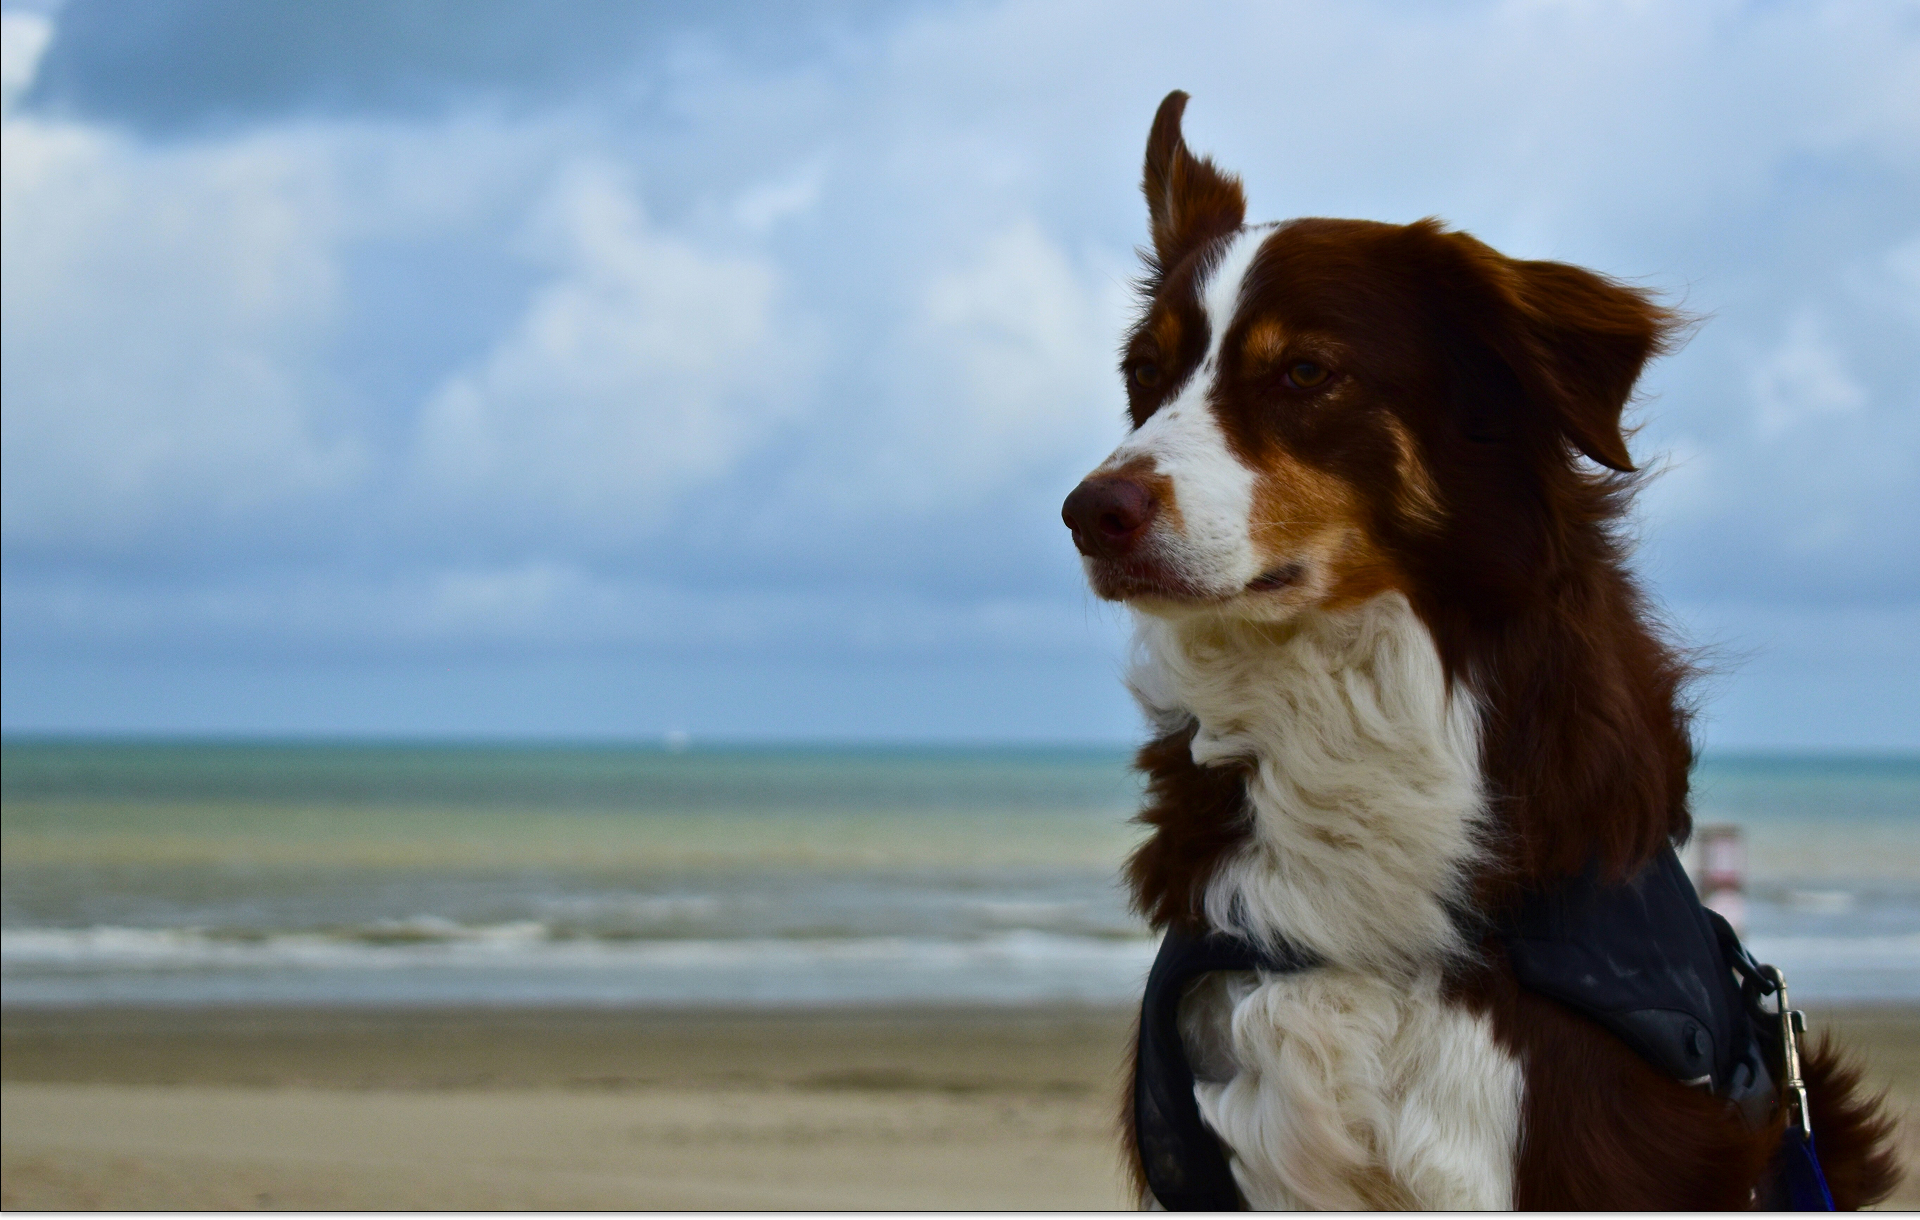
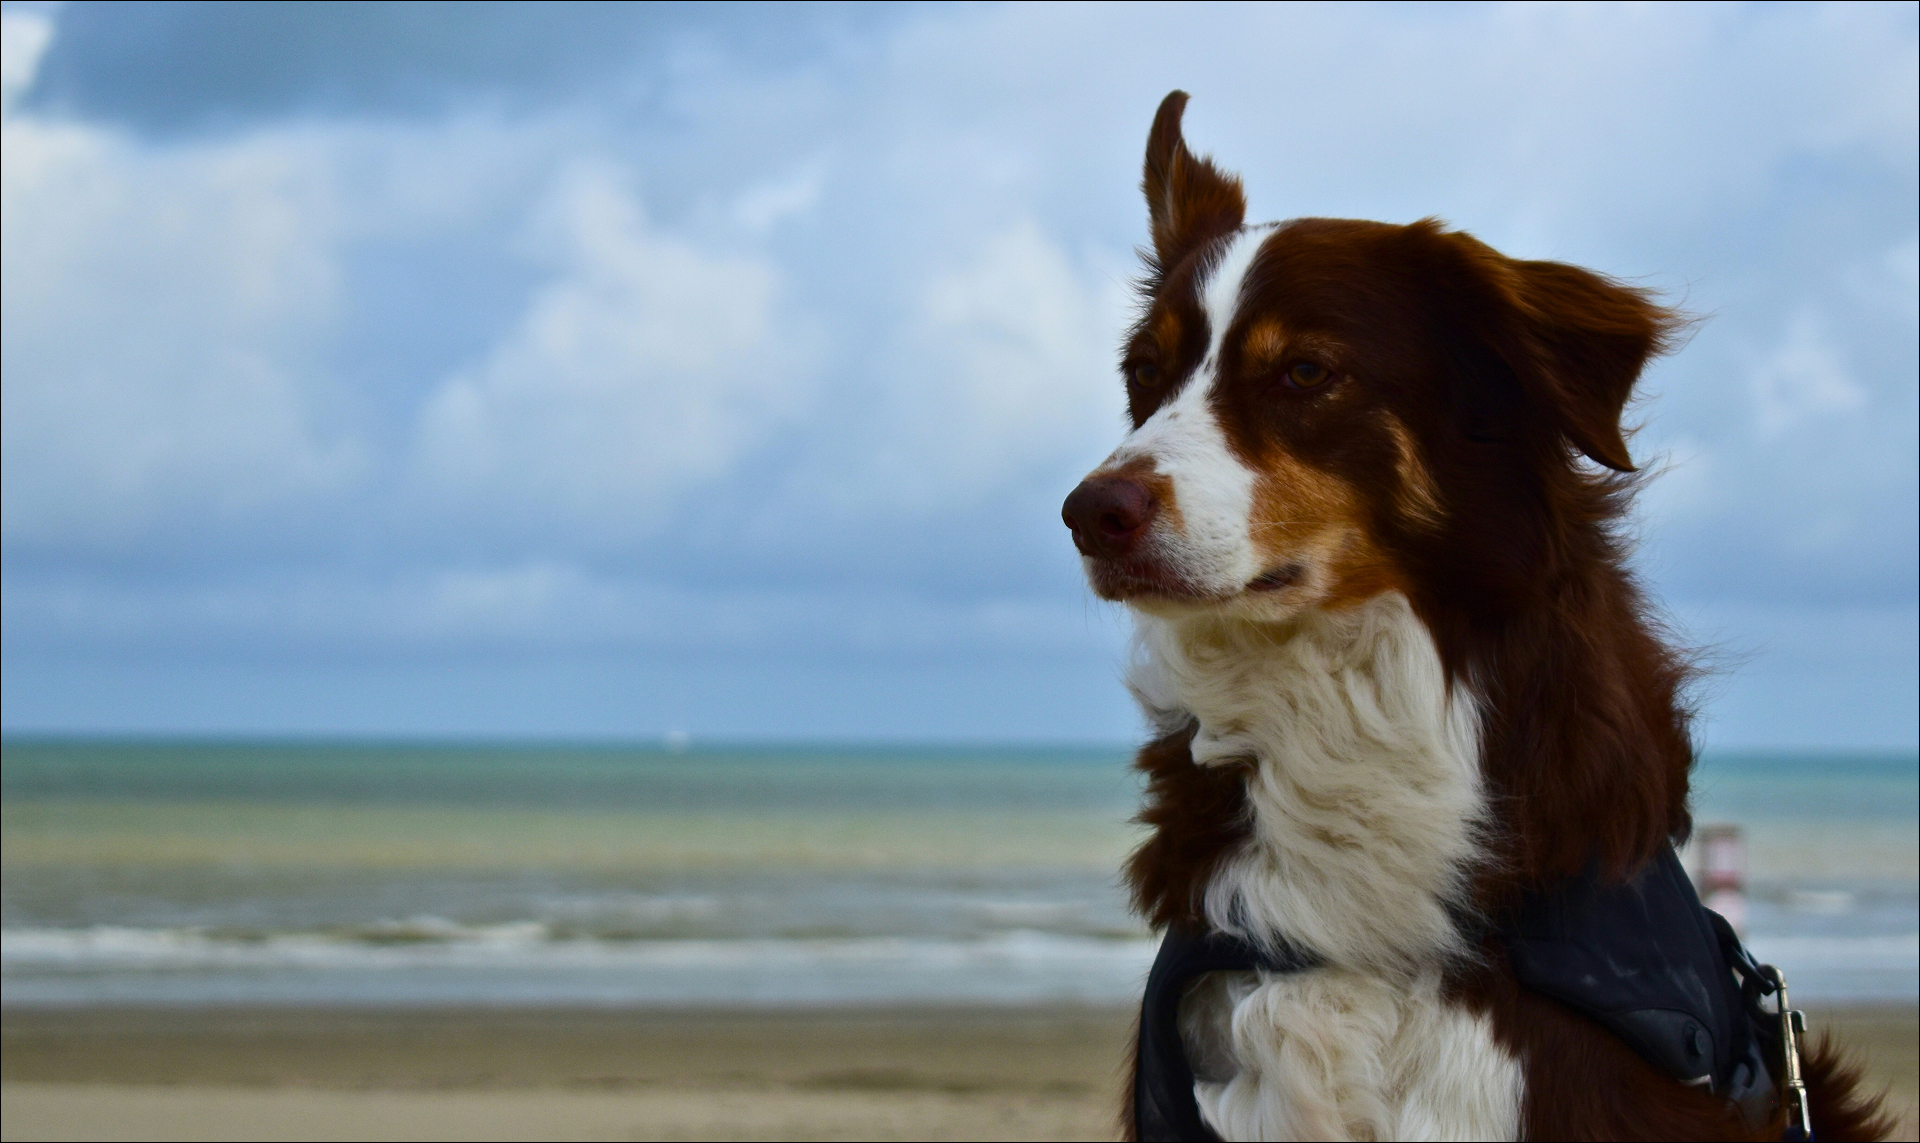
completed writing html structure for the landing page as final basis for styling and scripting + added and modified assets folder files

diff --git a/index.html b/index.html
@@ -5,22 +5,198 @@
 <head>
       <meta charset="UTF-8">
       <meta name="viewport" content="width=device-width, initial-scale=1.0">
-      <title>FurPaws: Local Pet Registry</title>
+      <title>FurPaws: Local Animal Registry</title>
       <link rel="stylesheet" href="styles/style.css">
 </head>
 
 <body>
       <header id="header">
+            <nav class="header-navbar">
+                  <a href="#header">
+                        <img src="assets/svg/about us paw print 1.svg">
+                  </a>
+                  
+                  <ul class="header-navbar-links">
+                        <li><a href="#about-us">ABOUT US</a></li>
+                        <li><a href="#faq">FAQ</a></li>
+                        <li><a href="#footer">CONTACT US</a></li>
+                  </ul>
+            </nav>
+
+            <section class="hero">
+                  <div class="hero-content">
+                        <h1 class="hero-title">RESPONSIBLE PET OWNERSHIP<br>BEGINS HERE</h1>
+
+                        <div class="hero-buttons">
+                              <a href="pages/user authorization/1 - sign in - user account.html" class="hero-signin-button">Sign In</a>
+                              <a href="pages/user authorization/3 - sign up.html" class="hero-signup-button">Sign Up</a>
+                        </div>
+
+                        <img class = "hero-banner-background" src="/assets/img/hero banner background.jpg">
+                  </div>
+            </section>
       </header>
       
-      <section id="about us">
+      <section id="about-us">
+            <img class="about-us-paw-print" src="assets/svg/about us paw print 1.svg">
+            <img class="about-us-paw-print" src="assets/svg/about us paw print 2.svg">
+            <img class="about-us-paw-print" src="assets/svg/about us paw print 1.svg">
+            <img class="about-us-paw-print" src="assets/svg/about us paw print 2.svg">
+
+            <h2 class="about-us-title">ABOUT US</h2>
+            
+            <div class="about-us-content">
+                  <div class="about-us-who-we-are">
+                        <h3>WHO WE ARE</h3>
+                        <p>We are a community-driven initiative under the local municipality of Trece Martires City dedicated to promoting responsible pet ownership and ensuring the safety and well-being of animals in our city.</p>
+                  </div>
+
+                  <div class="about-us-how-we-work">
+                        <h3>HOW WE WORK</h3>
+                        <p>Our organization serves as an official animal registry, where pets are registered to help provide access to essential services, such as health monitoring, identification, and protection. By maintaining an updated database of pets, we support faster response during emergencies, prevent loss or theft, and contribute to public safety.</p>
+                  </div>
+
+                  <div class="about-us-center-photo">
+                        <img src="assets/img/about us - center.jpg">
+                  </div>
+
+                  <div class="about-us-left-photo">
+                        <img src="assets/img/about us - left.jpg">
+                  </div>
+
+                  <div class="about-us-right-photo">
+                        <img src="assets/img/about us - right.jpg">
+                  </div>
+            </div>
       </section>
 
       <section id="faq">
+            <h2 class="faq-title">FREQUENTLY ASKED QUESTIONS</h2>
+
+            <img class="faq-paw-print" src="assets/svg/faq paw print 1.svg">
+            <img class="faq-paw-print" src="assets/svg/faq paw print 1.svg">
+            <img class="faq-paw-print" src="assets/svg/faq paw print 1.svg">
+            <img class="faq-paw-print" src="assets/svg/faq paw print 2.svg">
+            <img class="faq-paw-print" src="assets/svg/faq paw print 2.svg">
+            <img class="faq-paw-print" src="assets/svg/faq paw print 2.svg">
+            <img class="faq-paw-print" src="assets/svg/faq paw print 1.svg">
+            <img class="faq-paw-print" src="assets/svg/faq paw print 1.svg">
+            <img class="faq-paw-print" src="assets/svg/faq paw print 1.svg">
+            <img class="faq-paw-print" src="assets/svg/faq paw print 2.svg">
+            <img class="faq-paw-print" src="assets/svg/faq paw print 2.svg">
+            <img class="faq-paw-print" src="assets/svg/faq paw print 2.svg">
+
+            <div class="faq-grids">
+                  <div class="faq-grid1">
+                        <div class="faq-grid1-content">
+                              <h4>What are the benefits of registering my pet?</h4>
+                              <p>Registering your pet offers more advantages than you may think.<p>
+                              <ul>
+                                    <li>Easy Identification and Recovery</li>
+                                    <li>Proof of Ownership</li>
+                                    <li>Access to Health Monitoring</li>
+                                    <li>Increased Safety and Security</li>
+                                    <li>Faster Emergency Response</li>
+                                    <li>Supports Community Welfare</li>
+                              </ul>
+                        </div>
+                  </div>
+
+                  <div class="faq-grid2">
+                        <div class="faq-grid2-content">
+                              <h4>Why do I need to register my pet?</h4>
+                              <p>Registering your pet ensures their safety, supports their health, and helps build a more responsible and pet-friendly community.</p>
+                        </div>
+                  </div>
+
+                  <div class="faq-grid3">
+                        <div class="faq-grid3-content">
+                              <h4>What happens if I do not register my pet?</h4>
+                              <p>Failing to register your pet may lead to several challenges that can affect both you and your pets(s): <p>
+                              <ul>
+                                    <li>Difficulty In Finding Lost Pets</li>
+                                    <li>Lack of Proof of Ownership</li>
+                                    <li>Missed Health Monitoring</li>
+                                    <li>Slower Emergency Response</li>
+                                    <li>Non-Compliance With Local Policies</li>
+                              </ul>
+                        </div>
+                  </div>
+
+                  <div class="faq-grid4">
+                        <div class="faq-grid4-content">
+                              <h4>What information do I need to register my pet?</h4>
+                              <p>You will need basic details, such as owner and pet information.</p>
+                        </div>
+                  </div>
+
+                  <div class="faq-grid5">
+                        <div class="faq-grid5-content">
+                              <h4>Can I update any information I submit in the system?</h4>
+                              <p>Yes, you can update your user and pet(s)' information anytime under the "My Pets" and "Edit Profile" page in the User Dashboard.</p>
+                        </div>
+                  </div>
+
+                  <div class="faq-grid6">
+                        <div class="faq-grid6-content">
+                              <h4>How much would it be to register my pet?</h4>
+                              <p>Registration is completely free of charge!</p>
+                        </div>
+                  </div>
+            </div>
       </section>
 
       <footer id="footer">
+            <div class="footer-left">
+                  <a href="#header">
+                        <img src="assets/svg/about us paw print 1.svg">
+                  </a>
+                  
+                  <nav class="footer-navbar-links">
+                        <a href="#about-us">About Us</a>
+                        <a href="#faq">FAQ</a>
+                        <a href="#contact-us">Contact Us</a>
+                  </nav>
+
+                  <p class="footer-tagline">Helping owners, protecting pets, and building a stronger sense of community.</p>
+                  <p class="footer-tagline">Responsible pet ownership begins here.</p>
+
+                  <div class="social-media-icons">
+                        <img src="assets/svg/facebook icon.svg">
+                        <img src="assets/svg/instagram icon.svg">
+                        <img src="assets/svg/linkedin icon.svg">
+                  </div>
+            </div>
+
+            <div class="footer-right">
+                  <h3>Contact Us</h3>
+                  <div class="contact-form">
+                        <form method="POST">
+                              <div class="form-row">
+                                    <div class="form-field">
+                                          <label>NAME</label>
+                                          <input type="text"><br>
+                                    </div>
+
+                                    <div class="form-field">
+                                          <label>E-MAIL</label>
+                                          <input type="email"><br>
+                                    </div>
+                              </div>
+
+                              <label>MESSAGE</label>
+                              <input type="text"><br>
+                              <input type="submit">
+                        </form>
+                  </div>
+            </div>
+            
+            <div class="footer-copyright">
+                  <p>&copy;2026, All rights reserved.</p>
+            </div>
       </footer>
+
+      <script src="scripts/script.js"></script>
 </body>
 
 </html>